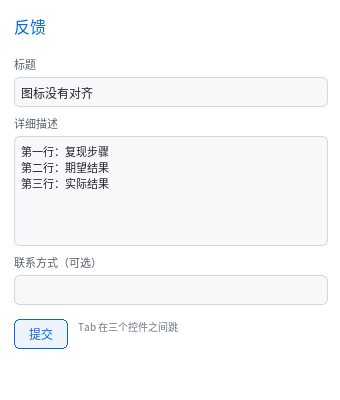
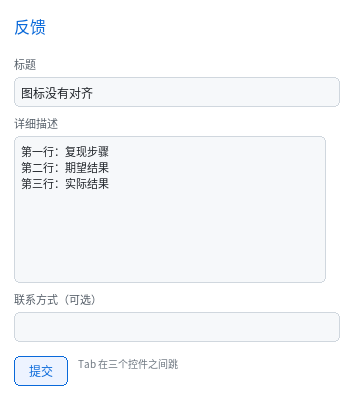
输入框：Ctrl+A 全选、打字自动滚动、光标裁在框内；例程真正跟着窗口变
## 1. Ctrl+A 全选

之前只映射了 Ctrl+C/X/V。现在 Ctrl+A 把选区设成 [0, len]，紧接着打字就是整体替换。

## 2. 打字到框底不自动滚（光标跑到框外）

`input_scroll_to_caret()` 只在 `input_set_caret()` 里调过，而**输入/删除走的是
直接赋值**（`in->caret += add`），所以打完字视图不跟。现在插入与退格/删除之后
都调一次，并清掉 sticky 列（`want_x`）—— 打字之后"想去的列"就是当前列，
这一点与浏览器一致（`test_textarea` 的 sticky 用例同步改了断言）。

## 3. 光标/选区画到框外面

上次只裁了**文字**，光标与选区是另一条绘制路径（`draw_input_decor`），
它没有裁剪，多行框滚出可见区后竖线就画到框下去了。现在同样裁到内容盒。

顺带修了一个更严重的问题：这个函数的**多行分支有提前 `return`**，
我第一版的裁剪恢复写在函数末尾，被那条 return 跳过 —— 结果裁剪一直生效，
**后面所有节点全被裁掉**（13_form 里"联系方式"以下整片空白）。
这类"改裁剪忘了成对恢复"的 bug 很难从现象反推，所以：
  · 恢复点挪到提前返回之前；
  · `test_textarea` 加了"框外越界像素 = 0"的断言。

## 4. 例程真正跟着窗口变

关键是 `flex: 1 1 0px`（**写成 `flex: 1` 不行**：basis 是 auto = 内容高度，
内容一多就撑爆容器、兄弟节点被挤出视口）。

```
#root  { width: 100%; height: 100%; box-sizing: border-box;
         display: flex; flex-direction: column; }
.list / textarea { flex: 1 1 0px; overflow: auto; }
```

13_form 的多行框、09_scroll 的列表都改成这个写法，两个窗口尺寸下渲染验证过
（列表 260×220 显示 5 行带滚动条，400×420 显示全部 10 行）。

`ex_run` 新增 `--size WxH`，方便验证自适应（不用改编译期常量）。

## 5. 文档

10_vs_web §4 补上"让子元素跟着窗口长高"的正确写法与 `flex: 1` 的坑。
教程截图按新布局重新生成。

ctest 60/60（test_textarea 54 → 61 项）；strict / ASan / lean / raw-only / full 全绿；
golden 28 页零变化。

diff --git a/doc/html/tutorial/10_vs_web.html b/doc/html/tutorial/10_vs_web.html
@@ -521,8 +521,14 @@ main img.shot { max-width: 100%; }
    #root { width: 100%; height: 100%; box-sizing: border-box; }</code></p>
 <p><code>box-sizing: border-box</code> 很重要：<code>width: 100%</code> 是<strong>内容盒</strong>宽度，再加上
    padding 就会超出视口（和浏览器一样）。
-2. <strong><code>height</code> 上的百分比仍然不支持</strong>（只有根元素例外）。所以"子元素跟着窗口长高"
-   目前做不到 —— 列表/文本框的高度得写死，或者按内容自动撑。
+2. <strong><code>height</code> 上的百分比仍然不支持</strong>（只有根元素例外）。
+   要让"子元素跟着窗口长高"，用<strong>竖向 flex + <code>flex: 1 1 0px</code></strong>：</p>
+<p><code>css
+   #root { width: 100%; height: 100%; box-sizing: border-box;
+           display: flex; flex-direction: column; }
+   .list { flex: 1 1 0px; overflow: auto; }   /* 吃掉剩余高度 */</code></p>
+<p>⚠ 必须是 <code>1 1 0px</code>，不能只写 <code>flex: 1</code> —— <code>flex: 1</code> 的 basis 是 <code>auto</code>
+   （= 内容高度），内容一多就把容器撑爆、后面兄弟节点被挤出视口。
 3. <code>margin</code> 的百分比不支持。</p>
 <hr />
 <h2 id="5">5. 属性白名单：写错就报错</h2>

diff --git a/test/web/test_textarea.c b/test/web/test_textarea.c
@@ -207,9 +207,14 @@ QL_TEST_BEGIN("test_textarea")
             key(ui, QL_KEY_DOWN, 0);
             type(ui, "?");
             const char *v = ql_ui_input_value(ui, ta);
-            QL_CHECK(v != NULL && strcmp(v, "abcdef\nxyz!\n123?456") == 0);
             if (v != NULL)
                 printf("    再下移后 = %s\n", v);
+            /*
+             * 注意这里回不到"点下去时那一列"：打过一个字符之后，
+             * sticky 列会被**清掉**（浏览器的行为 —— 打字的瞬间，
+             * "想去的列"就是当前列了）。所以这里落在第 4 列。
+             */
+            QL_CHECK(v != NULL && strcmp(v, "abcdef\nxyz!\n1234?56") == 0);
             ql_ui_free(ui);
             ql_ui_doc_free(doc);
         }
@@ -419,6 +424,73 @@ QL_TEST_BEGIN("test_textarea")
             }
             ql_ui_doc_free(doc);
             ql_disp_mem_destroy(s_disp);
+        }
+    }
+
+    /* ---------- 14. 打字打到框底要自动滚（光标不能跑到框外） ---------- */
+    {
+        QLUIRoot *ui = NULL;
+        QLUIDoc *doc = mk("<div id=r><textarea></textarea></div>",
+                          "#r { width: 240px } textarea { height: 48px;"
+                          " line-height: 16px; padding: 4px }", &ui);
+        QL_CHECK(ui != NULL);
+        if (ui != NULL) {
+            QLUINodeRT *ta = find_tag(ui, "textarea", 0);
+            click(ui, ta->content_box.x + 2, ta->content_box.y + 2);
+            /* 打 10 行：内容远超 48px 高，视图必须跟着滚 */
+            for (int i = 0; i < 10; i++) {
+                if (i > 0)
+                    key(ui, QL_KEY_ENTER, 0);
+                type(ui, "abc");
+            }
+            const char *v = ql_ui_input_value(ui, ta);
+            QL_CHECK(v != NULL && strchr(v, '\n') != NULL);
+
+            /*
+             * 断言"最后一行在可见范围内"：把光标位置换算成 y，
+             * 必须落在内容盒里（这正是 auto-scroll 的目的）。
+             */
+            s_disp = ql_disp_mem_create(W, H, QL_COLOR_RGB888);
+            QL_CHECK(s_disp != NULL);
+            if (s_disp != NULL) {
+                QLCanvas cv;
+                QL_CHECK_EQ(ql_canvas_from_disp(&cv, s_disp), QL_OK);
+                ql_canvas_clear(&cv, 0xFFFFFF);
+                ql_ui_render_canvas(ui, &cv);
+                /* 框下方的红区不该有光标竖线（用红底更好判断，这里退一步：
+                 * 直接比对内容盒下沿外 1px 处没有非白像素之外的东西） */
+                /* 从**边框盒**下沿往外看：content_box 下面还有 padding 和边框，
+                 * 拿 content_box 量会把边框本身当成"越界" */
+                const QLRect bb = ql_ui_node_rect(ta);
+                int outside = 0;
+                for (int y = (int)(bb.y + bb.h) + 1; y < (int)(bb.y + bb.h) + 6; y++)
+                    for (int x = (int)bb.x; x < (int)(bb.x + bb.w); x++)
+                        if (px(x, y) != 0xFFFFFF)
+                            outside++;
+                printf("    光标/文字越界像素 = %d（应 0）\n", outside);
+                QL_CHECK_EQ(outside, 0);
+                ql_disp_mem_destroy(s_disp);
+            }
+            ql_ui_free(ui);
+            ql_ui_doc_free(doc);
+        }
+    }
+
+    /* ---------- 15. Ctrl+A 全选 ---------- */
+    {
+        QLUIRoot *ui = NULL;
+        QLUIDoc *doc = mk("<div id=r><textarea>hello world</textarea></div>", "", &ui);
+        QL_CHECK(ui != NULL);
+        if (ui != NULL) {
+            QLUINodeRT *ta = find_tag(ui, "textarea", 0);
+            click(ui, ta->content_box.x + 2, ta->content_box.y + 2);
+            key(ui, 'a', QL_MOD_CTRL);
+            type(ui, "X");       /* 全选之后打字应该整串替换 */
+            QL_CHECK(strcmp(ql_ui_input_value(ui, ta), "X") == 0);
+            if (ql_ui_input_value(ui, ta) != NULL)
+                printf("    全选后输入 = [%s]\n", ql_ui_input_value(ui, ta));
+            ql_ui_free(ui);
+            ql_ui_doc_free(doc);
         }
     }
 

diff --git a/src/ui/qlui.c b/src/ui/qlui.c
@@ -1072,6 +1072,8 @@ static uint16_t input_cap(const struct QLUIInput *in)
                          : (uint16_t)QL_CFG_UI_INPUT_LEN;
 }
 
+static void input_scroll_to_caret(struct QLUIInput *in);
+
 static int input_insert(QLUIRoot *ui, struct QLUIInput *in, const char *s)
 {
     size_t add = strlen(s);
@@ -1091,6 +1093,9 @@ static int input_insert(QLUIRoot *ui, struct QLUIInput *in, const char *s)
     in->len = (uint16_t)(in->len + add);
     in->caret = (uint16_t)(in->caret + add);
     in->sel = in->caret;
+    in->want_x = -1;
+    /* 打字打到底要自动滚：否则光标/新字会落到框外（多行尤其明显） */
+    input_scroll_to_caret(in);
     input_emit(ui, in);
     return 1;
 }
@@ -1348,6 +1353,8 @@ static int input_key(QLUIRoot *ui, struct QLUIInput *in, const QLInputEvent *ev)
             in->len = (uint16_t)(in->len - (in->caret - from));
             in->caret = from;
             in->sel = from;
+            in->want_x = -1;
+            input_scroll_to_caret(in);
             input_emit(ui, in);
         }
         return 1;
@@ -1361,6 +1368,8 @@ static int input_key(QLUIRoot *ui, struct QLUIInput *in, const QLInputEvent *ev)
                     (size_t)(in->len - to) + 1u);
             in->len = (uint16_t)(in->len - (to - in->caret));
             in->sel = in->caret;
+            in->want_x = -1;
+            input_scroll_to_caret(in);
             input_emit(ui, in);
         }
         return 1;
@@ -3693,6 +3702,21 @@ static void draw_input_decor(QLUINodeRT *node, QLDraw2D *d2d)
     const QLRect cb = node->content_box;
     const ql_coord_t base_x = cb.x - in->scroll_x;
 
+    /*
+     * 光标与选区也要裁到内容盒：多行输入框滚出可见区之后，
+     * 光标会画到框下面去（截图里"竖线跑出文本框"就是这个）。
+     */
+    QLRect deco_saved = cb;
+    int deco_clipped = 0;
+    if (d2d->fill_rect != NULL && !ql_rect_is_empty(cb)) {
+        deco_saved = node->owner->clip;
+        const QLRect c = ql_rect_intersect(deco_saved, cb);
+        node->owner->clip = c;
+        if (d2d->set_clip != NULL)
+            d2d->set_clip(d2d, c);
+        deco_clipped = 1;
+    }
+
     /* 密码框显示成圆点，所以宽度必须按**显示文本**量，否则光标会飘 */
     char dots[QL_CFG_UI_INPUT_LEN * 3 + 4];
     const int pw = (node->src->flags & QL_UI_NODE_PASSWORD) != 0;
@@ -3751,6 +3775,12 @@ static void draw_input_decor(QLUINodeRT *node, QLDraw2D *d2d)
                 d2d->fill_rect(d2d, r, node->style->text_color, 255);
             }
         }
+        /* 提前返回前**必须**恢复裁剪：否则后面所有节点都被裁在输入框里 */
+        if (deco_clipped) {
+            node->owner->clip = deco_saved;
+            if (d2d->set_clip != NULL)
+                d2d->set_clip(d2d, deco_saved);
+        }
         return;
     }
 
@@ -3772,6 +3802,12 @@ static void draw_input_decor(QLUINodeRT *node, QLDraw2D *d2d)
         d2d->fill_rect(d2d, r, node->style->text_color, 255);
     }
     #undef DISP_OFF
+
+    if (deco_clipped) {
+        node->owner->clip = deco_saved;
+        if (d2d->set_clip != NULL)
+            d2d->set_clip(d2d, deco_saved);
+    }
 }
 
 static void render_node(QLUINodeRT *node, QLDraw2D *d2d)
@@ -5205,7 +5241,15 @@ void ql_ui_input_event(QLUIRoot *ui, const QLInputEvent *ev)
          */
         if ((ev->mods & QL_MOD_CTRL) != 0 && ql_ui_focus_node(ui) != NULL) {
             int done = 1;
-            if (ev->key == 'c')
+            if (ev->key == 'a') {
+                /* 全选：光标放到末尾、选区锚点放到开头（与浏览器一致） */
+                struct QLUIInput *in = focused_input(ui);
+                if (in != NULL) {
+                    in->sel = 0;
+                    in->caret = in->len;
+                    in->node->flags |= QL_UI_RT_DIRTY;
+                }
+            } else if (ev->key == 'c')
                 (void)ql_ui_clipboard_copy(ui);
             else if (ev->key == 'x')
                 (void)ql_ui_clipboard_cut(ui);

diff --git a/example/13_form.c b/example/13_form.c
@@ -42,15 +42,24 @@ static const char *k_html =
     "</div>";
 
 static const char *k_css =
-    "#root { width: 100%; height: 100%; box-sizing: border-box; background-color: #FFFFFF;"
+        /*
+     * 页面铺满窗口 + 竖向 flex：多行输入框用 `flex: 1 1 0px` 吃掉剩余高度，
+     * 窗口拉大它就变高。
+     *
+     * 注意是 `1 1 0px` 而不是 `1`：`flex: 1` 的 basis 是 auto（= 内容高度），
+     * 内容一高就撑爆容器；basis 写成 0 才是"从零开始分配剩余空间"。
+     */
+    "#root { width: 100%; height: 100%; box-sizing: border-box;"
+    "        display: flex; flex-direction: column;"
+    "        background-color: #FFFFFF;"
     "        padding: 14px; font-size: 12px; color: #1F2328; }"
     "h2 { font-size: 16px; color: #0969DA; margin: 0 0 10px 0; }"
     "label { display: block; color: #57606A; font-size: 11px; margin: 8px 0 4px 0; }"
     /* 单行与多行共用同一套外观，读起来才像同一个表单 */
-    "input { display: block; width: 300px; height: 22px; padding: 3px 6px;"
+    "input { display: block; width: 100%; height: 22px; padding: 3px 6px;"
     "        border-width: 1px; border-color: #D0D7DE; border-radius: 4px;"
     "        background-color: #F6F8FA; color: #1F2328; }"
-    "textarea { display: block; width: 300px; height: 96px; padding: 6px;"
+    "textarea { display: block; width: 100%; flex: 1 1 0px; padding: 6px;"
     "           border-width: 1px; border-color: #D0D7DE; border-radius: 4px;"
     "           background-color: #F6F8FA; color: #1F2328;"
     "           font-size: 11px; line-height: 16px; }"

diff --git a/example/09_scroll.c b/example/09_scroll.c
@@ -37,16 +37,19 @@ static const char *k_html =
 
 static const char *k_css =
     /*
-     * 页面铺满窗口（width/height 的百分比按视口解析），窗口拉大背景跟着变大。
-     * 注意：列表仍是固定高度 —— 本库还不支持 `height: %`，
-     * 所以"子元素跟着窗口长高"暂时做不到（见教程 §与 Web 的差别）。
+     * 页面铺满窗口（百分比按视口解析）+ 竖向 flex：列表用 `flex: 1 1 0px`
+     * 吃掉剩余高度，窗口拉高列表就变高。
+     *
+     * 是 `1 1 0px` 不是 `1`：`flex: 1` 的 basis 是 auto（= 内容高度），
+     * 内容一多就撑爆容器；basis 写 0 才是"按剩余空间分配"。
      */
-    "#root { width: 100%; height: 100%; box-sizing: border-box; background-color: #FFFFFF;"
+    "#root { width: 100%; height: 100%; box-sizing: border-box;"
+    "        display: flex; flex-direction: column; background-color: #FFFFFF;"
     "        padding: 12px; font-size: 12px; color: #1F2328; }"
     ".title { font-size: 14px; color: #0969DA; margin-bottom: 6px; }"
 
     /* 关键：overflow: auto + 固定高度 → 内容超出就能滚 */
-    ".list { width: 100%; height: 140px; overflow: auto;"
+    ".list { width: 100%; flex: 1 1 0px; overflow: auto;"
     "        background-color: #F6F8FA; border-radius: 8px; }"
     ".row { display: flex; gap: 8px; height: 28px; padding-left: 8px;"
     "       align-items: center; }"

diff --git a/example/common.h b/example/common.h
@@ -83,6 +83,14 @@ static int ex_run(QLUIRoot *ui, int w, int h, const char *title, int argc,
             max_frames = strtol(argv[++i], NULL, 10);
         else if (strcmp(argv[i], "--dump") == 0 && i + 1 < argc)
             dump = argv[++i];
+        else if (strcmp(argv[i], "--size") == 0 && i + 1 < argc) {
+            /* `--size 600x700`：换窗口尺寸（顺便看页面是不是真自适应） */
+            int sw = 0, sh = 0;
+            if (sscanf(argv[++i], "%dx%d", &sw, &sh) == 2 && sw > 0 && sh > 0) {
+                w = sw;
+                h = sh;
+            }
+        }
     }
     /* 截图模式下别等着人关窗口 */
     if (dump != NULL && max_frames == 0)

diff --git a/doc/tutorial/10_vs_web.md b/doc/tutorial/10_vs_web.md
@@ -157,8 +157,17 @@ div { }              /* 标签 */
 
    `box-sizing: border-box` 很重要：`width: 100%` 是**内容盒**宽度，再加上
    padding 就会超出视口（和浏览器一样）。
-2. **`height` 上的百分比仍然不支持**（只有根元素例外）。所以"子元素跟着窗口长高"
-   目前做不到 —— 列表/文本框的高度得写死，或者按内容自动撑。
+2. **`height` 上的百分比仍然不支持**（只有根元素例外）。
+   要让"子元素跟着窗口长高"，用**竖向 flex + `flex: 1 1 0px`**：
+
+   ```css
+   #root { width: 100%; height: 100%; box-sizing: border-box;
+           display: flex; flex-direction: column; }
+   .list { flex: 1 1 0px; overflow: auto; }   /* 吃掉剩余高度 */
+   ```
+
+   ⚠ 必须是 `1 1 0px`，不能只写 `flex: 1` —— `flex: 1` 的 basis 是 `auto`
+   （= 内容高度），内容一多就把容器撑爆、后面兄弟节点被挤出视口。
 3. `margin` 的百分比不支持。
 
 ---
